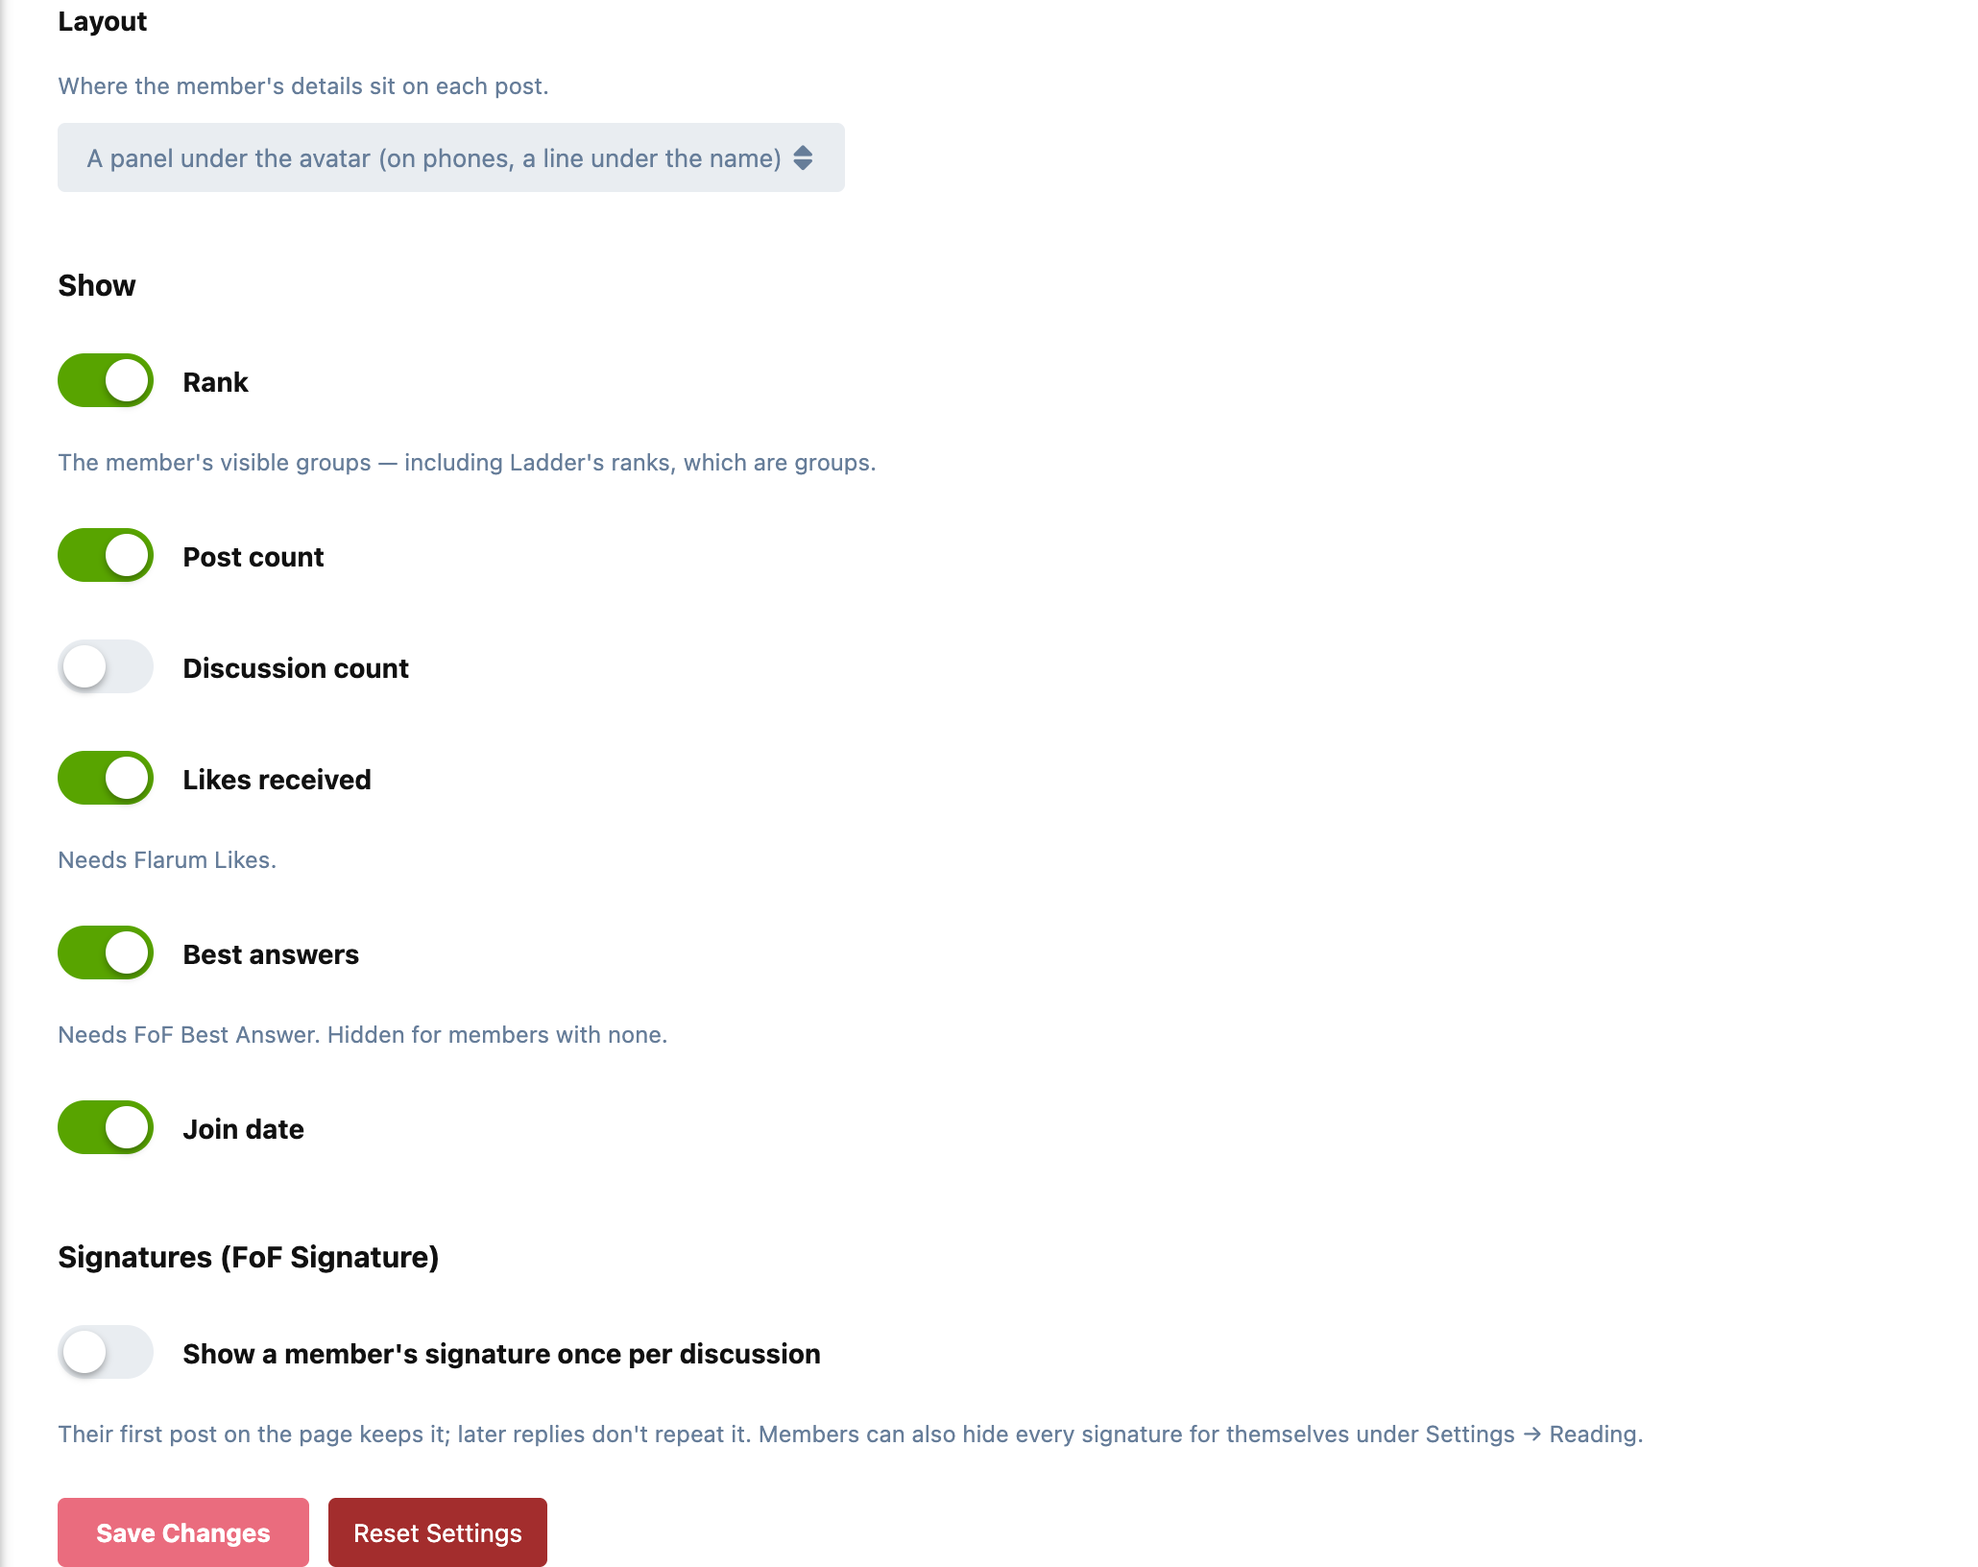
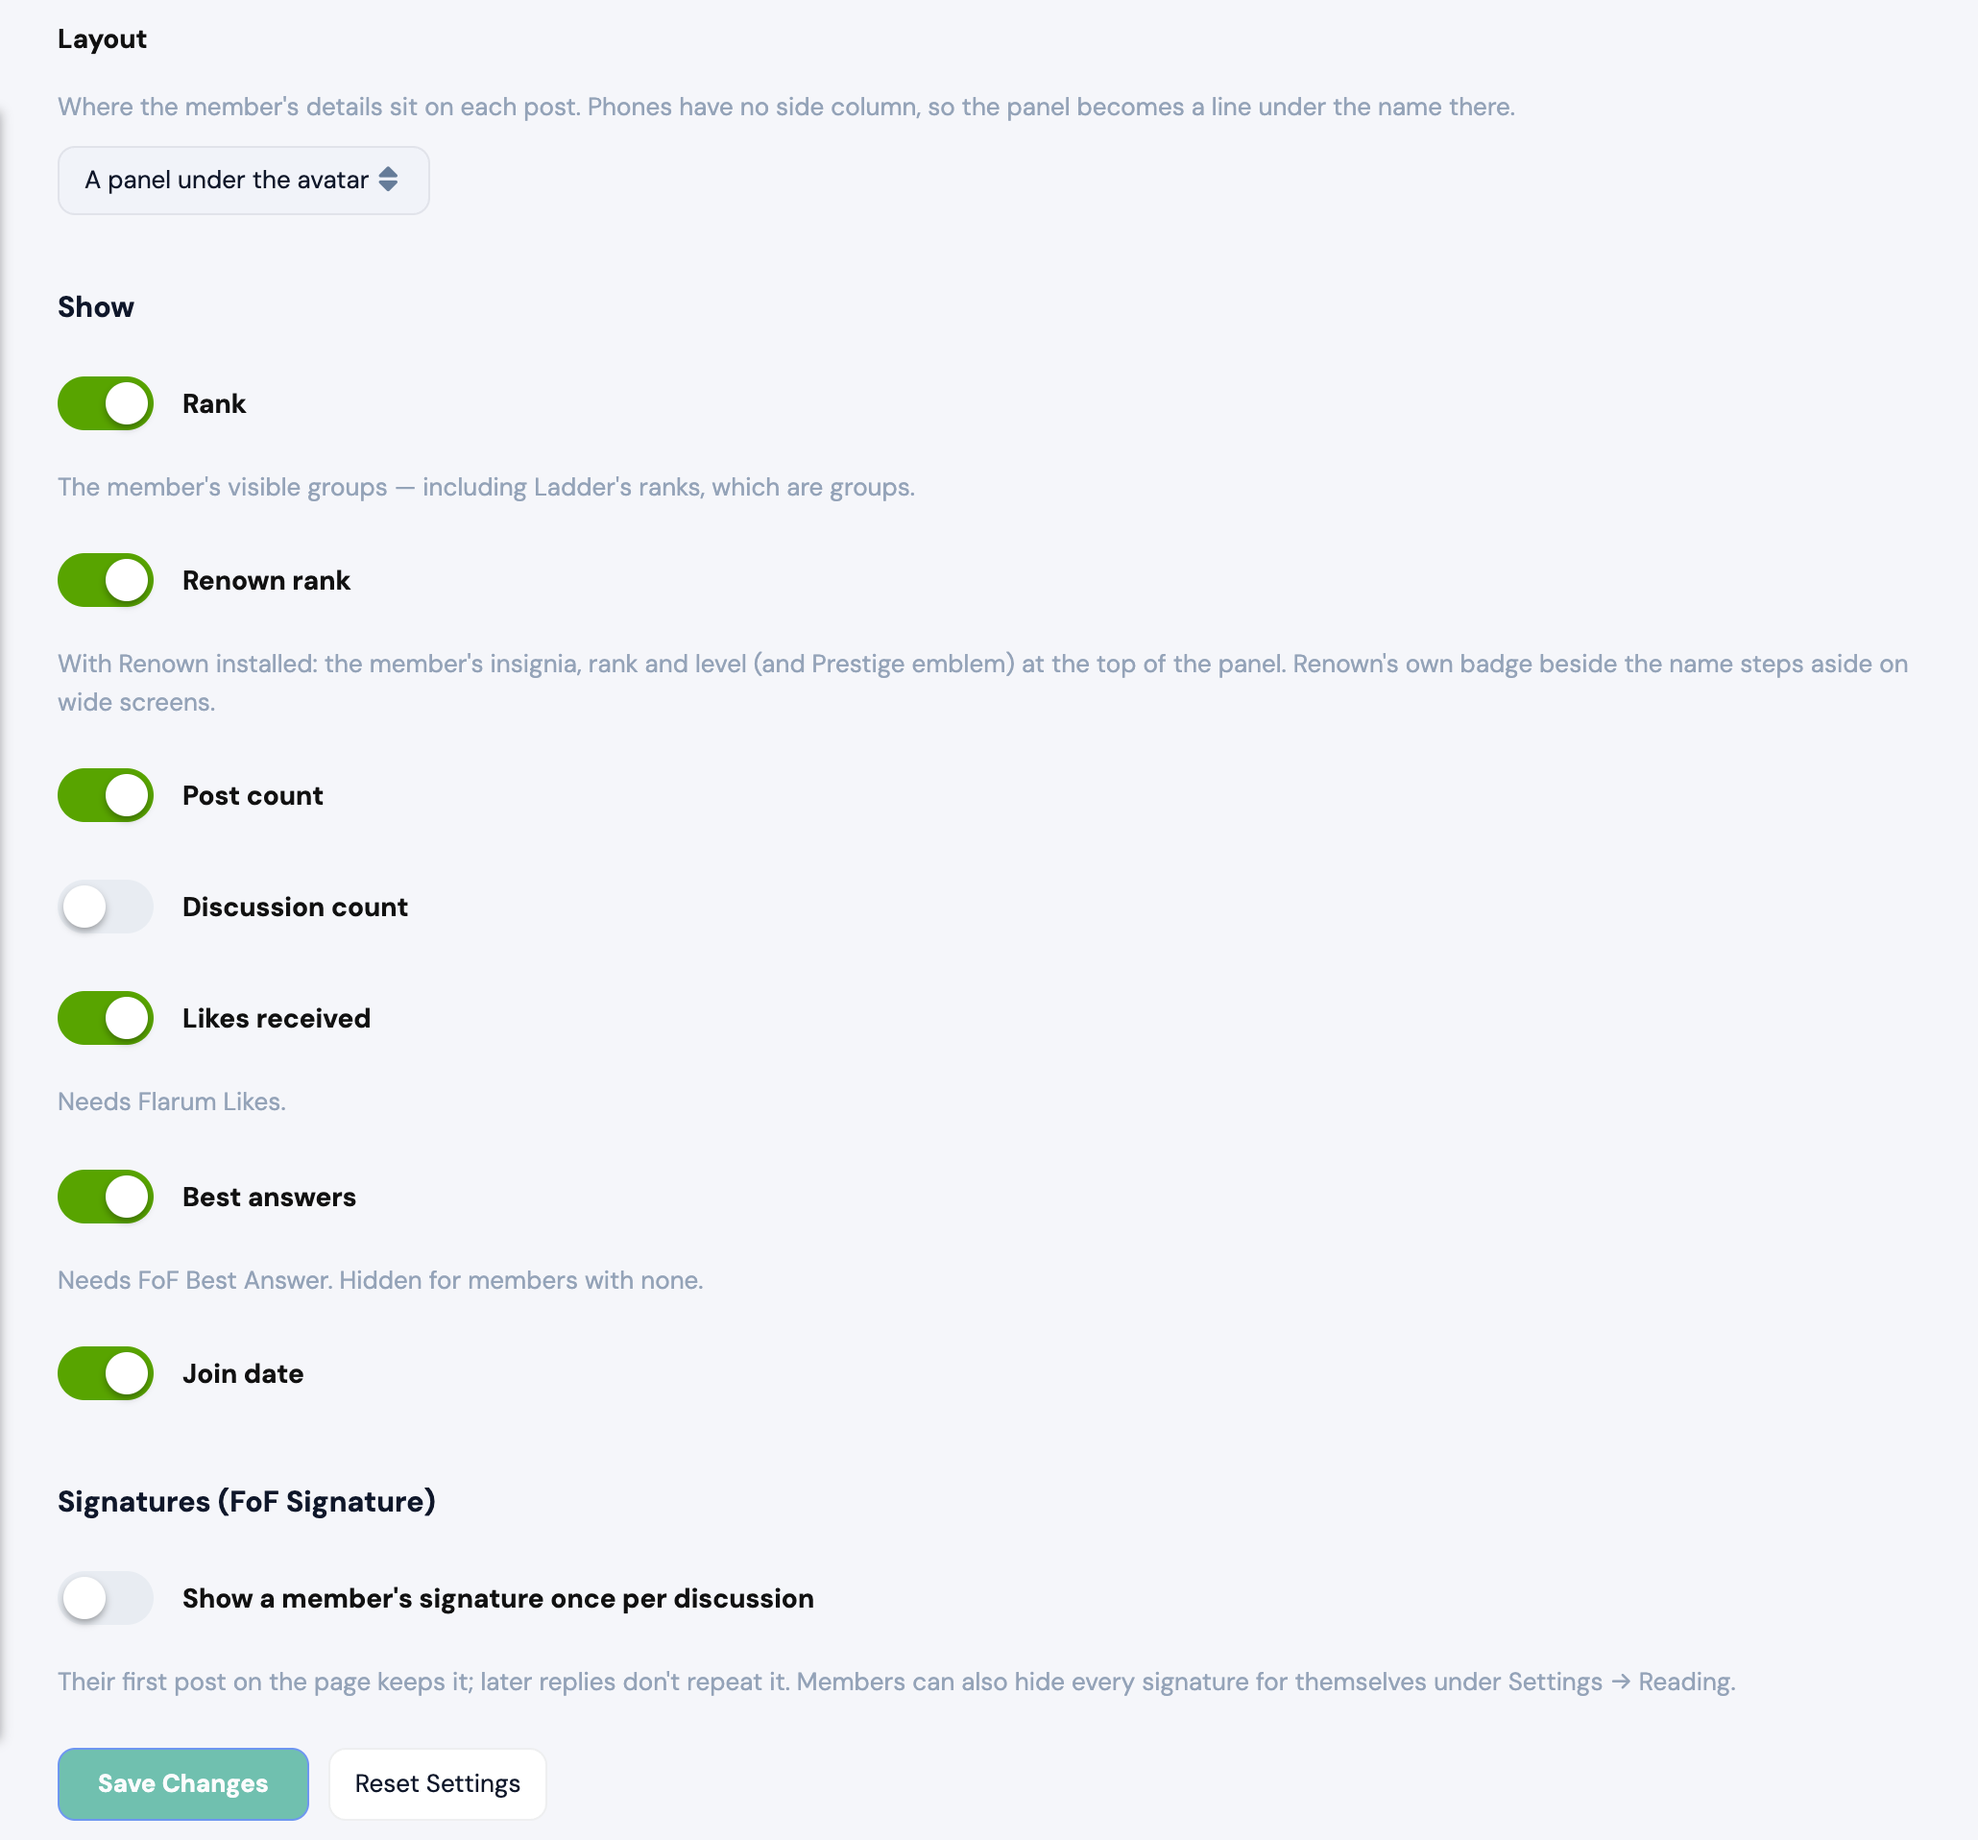
docs: fresh screenshots from the showcase, and the README covers the Renown rank

diff --git a/README.md b/README.md
@@ -5,11 +5,12 @@
 The member's panel beside every post, the way traditional forums have always
 shown it: who wrote this, and who they are on this forum.
 
-![A post with the member's panel under the avatar: their rank, post count and join date](screenshots/panel.png)
+![A post with the member's panel under the avatar: their groups, post count, likes received, best answers and join date](screenshots/panel.png)
 
 Under each author's avatar:
 
 - **Rank:** their visible groups, as coloured labels. [Ladder](https://github.com/ernestdefoe/ladder)'s post-count ranks are groups, so they show here automatically.
+- **Renown rank**, with [Renown](https://github.com/ernestdefoe/renown): their insignia, rank and level (and Prestige emblem) at the top of the panel.
 - **Posts** and, if you want it, **discussions**.
 - **Likes received**, with [Flarum Likes](https://github.com/flarum/likes).
 - **Best answers**, with [FoF Best Answer](https://github.com/FriendsOfFlarum/best-answer), for members who have any.
@@ -17,7 +18,7 @@ Under each author's avatar:
 
 On a phone there's no side column, so the same details sit in one line beside the author's name:
 
-<img src="screenshots/phone.png" alt="On a phone: the member's post count, likes and join date in one line beside their name" width="390">
+<img src="screenshots/phone.png" alt="On a phone: the member's groups, post count, likes, best answers and join date in a compact block beside their name" width="390">
 
 Prefer that compact line everywhere? It's a setting.
 
@@ -35,7 +36,7 @@ Admin → Nameplate:
 ![Nameplate's settings](screenshots/settings.png)
 
 - **Layout:** a panel under the avatar (a line on phones), or one line under the name everywhere
-- **Show:** rank, post count, discussion count, likes received, best answers and join date, each on or off
+- **Show:** rank, Renown rank, post count, discussion count, likes received, best answers and join date, each on or off
 - **Signatures:** once per discussion
 
 It uses your theme's own colours, so it fits the default theme, Bespoke and others without styling.
@@ -43,7 +44,7 @@ It uses your theme's own colours, so it fits the default theme, Bespoke and othe
 ## Good to know
 
 - **No extra load per post.** Post counts, join dates and groups already arrive with every post. Likes received is the one figure that needs counting, so it's cached for each member and refreshed whenever one of their posts is liked or unliked.
-- **Optional extensions stay optional.** Likes and best answers only appear when those extensions are installed; nothing breaks without them.
+- **Optional extensions stay optional.** Likes, best answers, signatures and Renown only appear when those extensions are installed; nothing breaks without them.
 
 ## Installation
 
